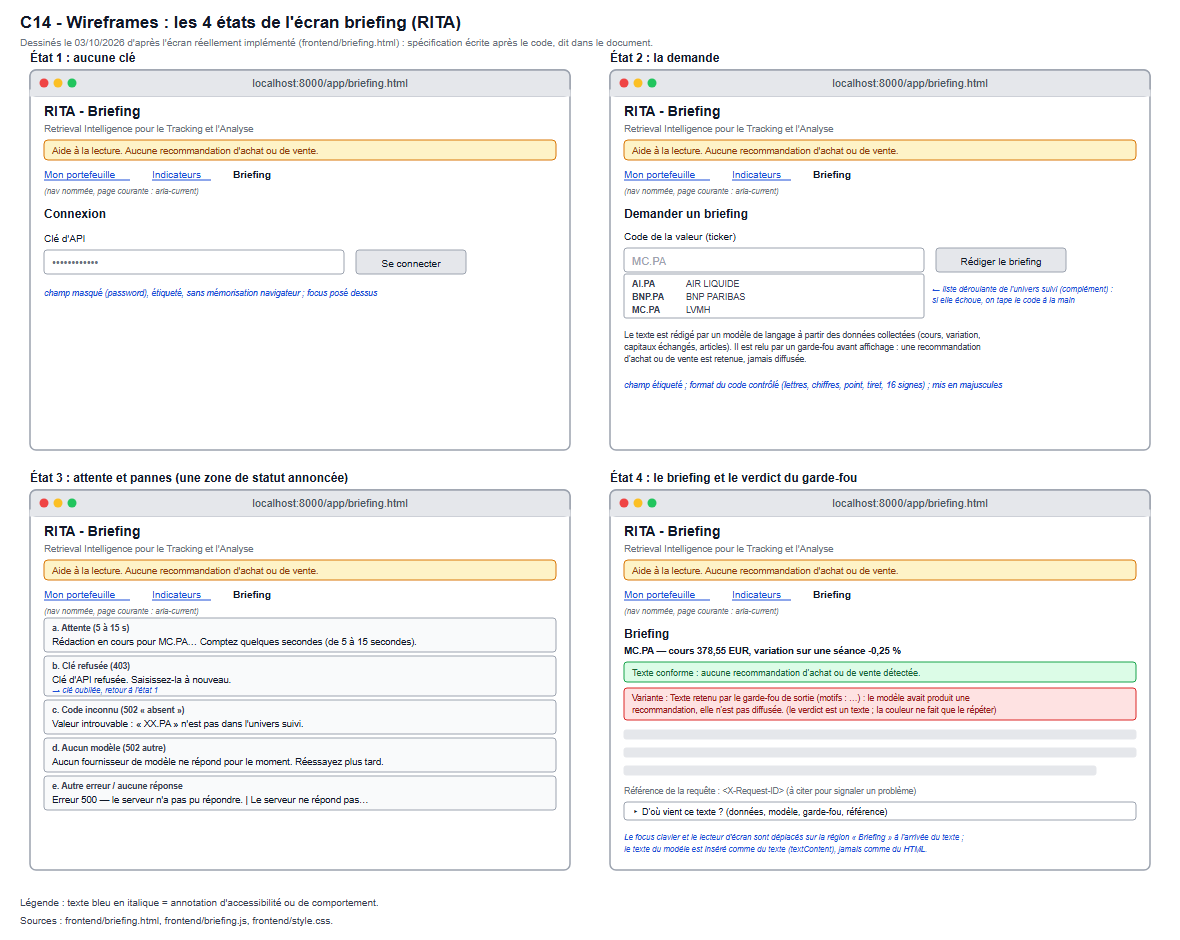
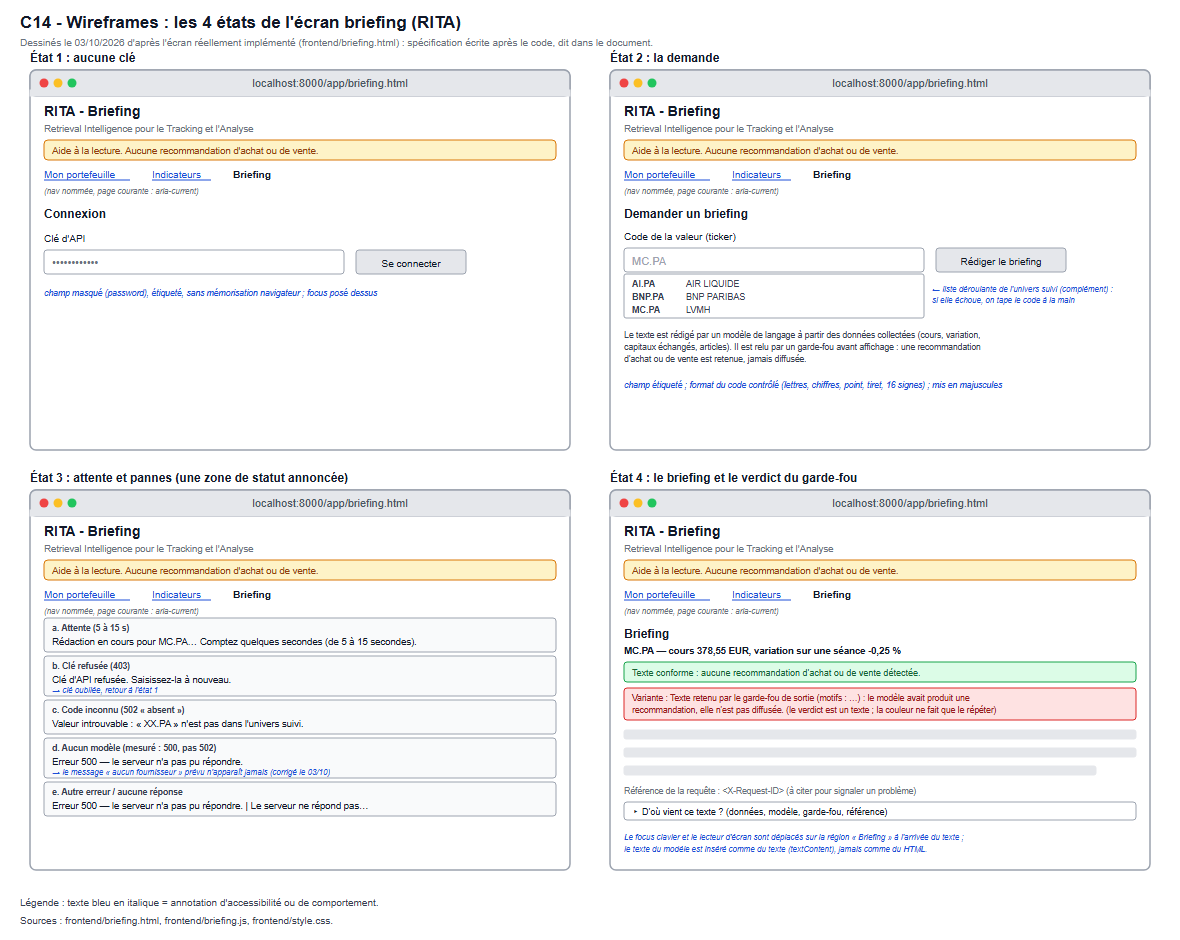
Plan E4, tache T4 : revue OWASP Top 10:2025 ecrite entree par entree (edition en vigueur ; code relu, recherches sur tout le depot et les 313 commits, garde-fous mesures, production sondee) ; tenus : acces, cryptographie, injections SQL et HTML, integrite, exceptions ; point faible : configuration (

Changed region(s): [[0.0305, 0.7713, 0.4881, 0.8638]]

diff --git a/evidence/C17/revue-owasp-top10-2025-2026-10-03.md b/evidence/C17/revue-owasp-top10-2025-2026-10-03.md
@@ -1,0 +1,147 @@
+# Revue OWASP Top 10:2025 de RITA, entrée par entrée (03/10/2026)
+
+> **Critère visé** : C17, *« Les préconisations OWASP Top 10 sont implémentées »* (livrable E4), et C9 pour l'API qui expose le modèle.
+> Tâche T4 du plan E4 ([`../../docs/PLAN-E4-rapport.md`](../../docs/PLAN-E4-rapport.md)), carte #29, avancée de la semaine 44 à aujourd'hui (décision D3).
+> **Code relu** : branche `develop`, commit `e39fbba` (03/10/2026). **Production sondée** le même soir : `https://178-104-184-125.sslip.io`.
+
+## 1. Le verdict, en une ligne par entrée
+
+| Entrée (édition 2025) | État | En une phrase |
+|---|---|---|
+| A01 Contrôle d'accès défaillant | 🟢 tenu, une réserve | toutes les routes de données et le briefing exigent la clé (prouvé en production) ; la documentation de l'API est publique (S2) |
+| A02 Mauvaise configuration de sécurité | 🔴 **le point faible** | aucun en-tête de sécurité en production (S1), documentation publique (S2), mots de passe de développement par défaut (S8) |
+| A03 Défaillances de la chaîne d'approvisionnement logicielle | 🟠 partiel | image épinglée, mais environnement de développement non épinglé, alertes Dependabot désactivées, actions épinglées par étiquette (S7) |
+| A04 Défaillances cryptographiques | 🟢 tenu | TLS 1.3, TLS 1.0 et 1.1 refusés, redirection HTTP vers HTTPS, comparaison de clé à temps constant |
+| A05 Injection | 🟢 tenu, une réserve | SQL toujours paramétré, `textContent` partout côté écran ; le ticker de `/briefing` n'a pas de longueur maximale (S5) ; injection de prompt : 70 % bloqués, sous le seuil de 85 % (S9) |
+| A06 Conception non sécurisée | 🟠 partiel | contrainte AMF en code, rien du portefeuille envoyé au modèle ; **aucune limite de débit** sur un appel payant (S3) ; pas de modèle de menace écrit |
+| A07 Défaillances d'authentification | 🟠 partiel | plus de clé par défaut (INC-001), longueur minimale, refus de démarrer sans clé ; une seule clé partagée, pas de limite aux essais (S3), clé mémorisée trop tôt sur l'écran 3 (#73) |
+| A08 Défaillances d'intégrité des logiciels ou des données | 🟢 tenu | `main` et tags protégés par GitHub, image publiée seulement après vérification et sur un tag, import en base par un seul chemin |
+| A09 Défaillances de journalisation et d'alerte | 🟠 partiel | identifiant de requête partout, refus du garde-fou journalisé sans le texte ; **les refus d'authentification ne sont pas journalisés** (S4), aucune alerte sur une chaîne rouge (INC-007) |
+| A10 Mauvaise gestion des conditions exceptionnelles | 🟢 tenu, une réserve | erreur inattendue : 500 générique avec identifiant, aucun détail interne ; panne de tous les fournisseurs : même 500, alors que l'écran prévoit un message dédié qui n'apparaît jamais (S6) |
+
+**Conclusion honnête** : la revue écrite existe, les injections et l'accès aux données tiennent, mais **plusieurs préconisations ne sont pas implémentées** (en-têtes, limitation de débit, journalisation des refus, chaîne d'approvisionnement). Le critère C17.8 reste donc **partiel** : il demande des préconisations *implémentées*, pas seulement passées en revue. Rien n'est corrigé avant le tag du 15/10 (aucun code d'application avant le gel) ; le plan de correction est au §5.
+
+## 2. Méthode
+
+| Élément | Valeur |
+|---|---|
+| Référence | **OWASP Top 10:2025**, l'édition en vigueur : `https://owasp.org/Top10/` redirige vers elle (vérifié le 03/10/2026) ; liste lue sur la page d'introduction officielle, [owasp.org/Top10/2025/0x00_2025-Introduction/](https://owasp.org/Top10/2025/0x00_2025-Introduction/) |
+| Compléments | [OWASP API Security Top 10 2023](https://owasp.org/API-Security/editions/2023/en/0x00-header/) (RITA est d'abord une API) ; [OWASP Top 10 pour les applications de modèles de langage](https://owasp.org/www-project-top-10-for-large-language-model-applications/) (injection de prompt) |
+| Lecture du code | `api/main.py`, `api/donnees.py`, `agents/scout.py`, `graph/workflow.py`, `src/llm.py`, `frontend/*.js`, `Dockerfile`, `docker-compose.yml`, `.github/workflows/*.yml` |
+| Recherches sur tout le code suivi par Git | toutes les exécutions SQL ; tout SQL assemblé par chaîne ; `eval`, `exec`, `pickle`, `shell=True` ; motifs de clés réelles (Anthropic, OpenRouter, Langfuse, AWS, GitHub, clés privées) dans l'arbre **et dans les 313 commits de l'historique** |
+| Mesures lancées | les trois mesures de garde-fous (`evals.mesurer_gardefou`, `mesurer_entree`, `mesurer_sortie`) ; une sonde locale de `/briefing` (panne de tous les fournisseurs, ticker de 5 000 caractères, ticker contenant une balise), sans réseau ni traçage |
+| Production | en-têtes de réponse, documentation publique, refus sans clé et avec une fausse clé, redirection HTTP, version de TLS et certificat |
+| Ce qui n'a **pas** été fait | aucun scanner automatique (ni ZAP, ni `pip-audit` : ils demandent un téléchargement, à décider) ; aucun test d'intrusion ; aucune revue par une autre personne |
+
+**Note de vocabulaire.** Le dépôt cite souvent « OWASP A03 » pour l'injection : c'est la numérotation **2021**. Dans l'édition 2025, l'injection est **A05**, et A03 désigne la chaîne d'approvisionnement logicielle. Les commentaires du code ne sont pas modifiés avant le gel ; ce document et la spécification C14 du 03/10 utilisent la numérotation 2025.
+
+## 3. Entrée par entrée
+
+### A01:2025 Contrôle d'accès défaillant : 🟢 tenu, une réserve
+
+**Ce qui est en place.** Une seule clé d'API, exigée par une dépendance posée **sur le routeur entier** des données (`api/main.py:207`) : une nouvelle route ne peut pas oublier la protection. `/briefing` et `/audit/mcp` l'exigent aussi ; `/health` seul est public et ne rend aucune donnée. Rôle PostgreSQL `rita_lecture` en lecture seule (`db/roles.sql`, 4 tests). La passerelle MCP passe par l'API et ne touche jamais la base.
+**Preuves.** Tests `test_toute_route_donnees_est_protegee` et `test_sans_cle_l_acces_est_refuse` (`tests/test_api_donnees.py`). **En production le 03/10** : `/donnees/valeurs` sans clé et avec une fausse clé : **403** ; `POST /briefing` sans clé : **403**.
+**Réserves.** (1) `/docs`, `/redoc` et `/openapi.json` répondent **200 sans clé** en production : la carte complète de l'API est publique, sans aucune donnée (**S2**). (2) Un seul niveau d'accès, choix d'une application mono-utilisateur (décision D10, à défendre par écrit : décision D1 du plan E4). (3) Le rôle `rita_lecture` existe mais aucun outil ne l'utilise encore.
+
+### A02:2025 Mauvaise configuration de sécurité : 🔴 le point faible
+
+**Ce qui est en place.** Conteneur de l'API non root (`USER rita`), système de fichiers en lecture seule, `no-new-privileges` ; la base de pré-production n'est pas publiée sur le réseau ; le front ne charge **aucune ressource externe ni aucun script en ligne** (vérifié), donc une politique de sécurité du contenu stricte est possible sans rien casser.
+**Ce qui manque, mesuré en production le 03/10** : la réponse ne porte **aucun** en-tête de sécurité : ni `Content-Security-Policy`, ni `Strict-Transport-Security`, ni `X-Content-Type-Options`, ni `X-Frame-Options`, ni `Referrer-Policy`. Elle annonce `Server: uvicorn` et `Via: 1.1 Caddy` (**S1**). La documentation interactive est publique (**S2**).
+**Mots de passe par défaut (S8).** `sources/database.py`, `db/importer.py` et `db/rgpd_purge.py` gardent une adresse de base par défaut avec le mot de passe `rita_dev_local` ; c'est **voulu et documenté** (elle vise le port 5432 pour échouer quand la configuration manque, au lieu de masquer l'absence, leçon d'INC-001). `db/docker-compose.yml` (développement) publie PostgreSQL sur toutes les interfaces avec ce même mot de passe ; `docker-compose.yml` (pré-production) a une valeur de secours `rita_preprod_local` si `POSTGRES_PASSWORD` manque. Aucun de ces fichiers ne sert la production ; à durcir quand même, parce qu'une valeur de secours est une porte ouverte documentée.
+
+### A03:2025 Défaillances de la chaîne d'approvisionnement logicielle : 🟠 partiel
+
+**En place.** L'image de l'API installe `requirements-api.txt`, **13 dépendances sur 13 épinglées** (`==`). Permissions par défaut des workflows : lecture seule (API GitHub). Aucun secret dans l'historique (§2).
+**Manques (S7).** `requirements.txt` (développement et CI) : 13 lignes sur 18 sans version (carte #23) ; aucun hachage (`--require-hashes`) ; **alertes Dependabot désactivées** (l'API GitHub le dit) et aucun fichier `dependabot.yml` ; les actions GitHub sont épinglées par **étiquette** (`@v7`), pas par empreinte de commit, dont une action tierce (`anthropics/claude-code-action@v1`) qui reçoit `id-token: write` ; image de base `python:3.13-slim` non épinglée par empreinte ; pas d'inventaire des composants (SBOM).
+**Un fournisseur de plus dans la chaîne** : le modèle de langage. Le banc C7 a montré que le Claude servi par OpenRouter vient d'Amazon Bedrock ([`../C7/preuve-benchmark-2026-10-03.md`](../C7/preuve-benchmark-2026-10-03.md), §10) : le texte du briefing traverse donc des hébergeurs que RITA ne choisit pas un par un.
+
+### A04:2025 Défaillances cryptographiques : 🟢 tenu
+
+**Mesuré en production le 03/10** : TLS **1.3** (`TLS_AES_128_GCM_SHA256`), **TLS 1.0 et 1.1 refusés**, certificat Let's Encrypt valide, HTTP redirigé vers HTTPS (308). Clé comparée par `secrets.compare_digest` (temps constant), longueur minimale de 16 caractères, API qui refuse de démarrer sans clé. Aucun mot de passe d'utilisateur n'est stocké. Côté navigateur, la clé vit dans `sessionStorage` (effacée à la fermeture de l'onglet), jamais dans un fichier du front (test).
+**Points à surveiller.** (1) **Le certificat expire le 18/11/2026, avant le jury du 30/11** : Caddy renouvelle automatiquement, mais ce renouvellement n'a jamais été observé sur ce serveur ; à contrôler fin octobre (**S10**). (2) Pas d'en-tête HSTS (voir A02). (3) Le chiffrement des sauvegardes n'est pas documenté : non vérifié ici.
+
+### A05:2025 Injection : 🟢 tenu, une réserve
+
+**SQL.** Toutes les exécutions passent des paramètres liés (`%(nom)s`, `%s`). Trois endroits assemblent du texte SQL : `db/importer.py:222` et `:236` (un fragment **constant**, `CLE_LIGNE`) et `scripts/lister_articles.py:66` (des marqueurs `%(motifN)s` générés, les valeurs restant liées) : aucune entrée d'utilisateur n'atteint le texte de la requête. Les filtres de l'API sont bornés (`limite` entre 1 et 1 000, ticker de 1 à 16 caractères sur `/cotations`, série FRED contrôlée contre une liste fermée, modèle Pydantic fermé `extra="forbid"` sur `/audit/mcp`).
+**Navigateur.** Les trois écrans écrivent par `textContent`, jamais `innerHTML` (trois tests). Le texte du modèle est traité comme une donnée.
+**Journal.** Identifiant de requête accepté seulement s'il est sain (8 à 64 caractères sûrs), valeurs écrites avec `%r` (pas de fausse ligne de journal).
+**Commandes.** Aucun `eval`, `exec`, `pickle`, `yaml.load` ni `shell=True` dans le code de l'application.
+**Réserve, mesurée (S5).** `POST /briefing` prend `ticker: str` **sans longueur maximale** : un ticker de 5 000 caractères est écrit en entier dans le journal et renvoyé en entier (5 027 caractères) dans la réponse 502 ; une balise `<img src=x>` revient telle quelle dans le JSON, sans danger ici parce que l'écran l'affiche par `textContent`.
+**Injection de prompt** (hors du Top 10 web, première entrée du Top 10 des applications de modèles de langage). Mesuré le 03/10 : garde-fou d'injection **70 %** de blocage sur 10 cas, 0 % de faux positifs ; garde-fou de sortie **70 %** sur 10, 0 % ; garde-fou d'entrée 100 % sur 5. Les deux premiers sont **sous le seuil de 85 %**, déclarés en `xfail` dans `tests/test_evals.py`, seuil jamais baissé (**S9**). Les phrases qui passent sont listées par les mesures (« une occasion à saisir », « mérite une place dans un portefeuille diversifié »).
+
+### A06:2025 Conception non sécurisée : 🟠 partiel
+
+**En place.** La contrainte AMF est dans le code, pas seulement dans le prompt : le garde-fou de sortie est en échec fermé (un doute = texte non diffusé). Les positions de l'utilisateur ne sont jamais envoyées au modèle (le scout ne lit que trois lectures de marché). La passerelle MCP n'a pas d'accès direct à la base. Le risque des trois ingrédients réunis (données privées, contenu non fiable, sortie vers l'extérieur) a été étudié en veille (S33, S34).
+**Manques.** (1) **Aucune limite de débit (S3)** : celui qui tient la clé peut déclencher autant d'appels payants qu'il veut (OWASP API4:2023, consommation de ressources non bornée). (2) **Pas de modèle de menace écrit** dans le dépôt : il existe en morceaux dans la veille, pas comme un document. (3) Seize indicateurs spécifiés, treize envoyés au modèle : le choix de ne pas envoyer les positions est un choix de confidentialité, à écrire comme tel.
+
+### A07:2025 Défaillances d'authentification : 🟠 partiel
+
+**En place.** Plus de clé par défaut depuis le 18/08 (INC-001, test `test_l_api_refuse_de_servir_sans_cle_configuree`) ; longueur minimale ; comparaison à temps constant ; une clé refusée est oubliée par l'écran et redemandée.
+**Manques.** Une seule clé statique partagée, sans expiration, sans procédure de rotation testée ; **aucune limite aux essais** (S3) ; aucun journal des refus (S4) ; l'écran briefing mémorise la clé avant de savoir si elle fonctionne (carte #73).
+
+### A08:2025 Défaillances d'intégrité des logiciels ou des données : 🟢 tenu
+
+**En place.** Règles GitHub : `main` ne change que par une pull request avec `pytest`, `evals` et la revue verts ; les tags `livrable-*` ne peuvent être ni déplacés ni supprimés ([`../C19/preuve-protection-main-2026-10-03.md`](../C19/preuve-protection-main-2026-10-03.md)). L'image n'est publiée qu'après sa vérification, et seulement sur un tag. En base : écriture par `db/importer.py` et `pipelines/ingest.py` seulement, 12 contraintes `CHECK` dans `db/schema.sql` (trois de plus dans les migrations du 03/10), articles marqués par le garde-fou d'injection avant d'entrer dans la recherche.
+**Limites.** Image non signée ; actions épinglées par étiquette (voir A03).
+
+### A09:2025 Défaillances de journalisation et d'alerte : 🟠 partiel
+
+**En place.** Un identifiant par requête dans l'en-tête, dans chaque ligne de journal et comme identifiant de trace Langfuse, y compris sur un 500 (test `test_une_erreur_inattendue_500_porte_aussi_l_identifiant`). Une ligne par briefing servi, une par refus du garde-fou, jamais le texte. Traces Langfuse ; un workflow ouvre une issue sur une alerte Langfuse.
+**Manques.** (1) **Les refus d'authentification (403) ne laissent aucune ligne** (S4) : une tentative de force brute serait invisible. (2) **Aucune alerte quand la chaîne d'intégration continue est rouge** : INC-007 l'a montré, dix exécutions rouges en 1 h 20 sans que personne le sache. (3) Les alertes Langfuse attendent leur configuration par Era. (4) Un ticker sans longueur maximale peut remplir le journal (S5).
+
+### A10:2025 Mauvaise gestion des conditions exceptionnelles : 🟢 tenu, une réserve
+
+**En place.** Toute exception imprévue devient un 500 générique, avec l'identifiant de requête, le détail allant au journal seulement (test). Mesuré le 03/10 : quand **tous** les fournisseurs échouent, le client reçoit `{"detail": "Erreur interne. Identifiant de requete : …"}` et **l'adresse interne du fournisseur ne fuit pas**. La cascade passe d'un fournisseur au suivant ; le garde-fou de sortie échoue fermé ; un indicateur absent s'affiche « — », jamais 0 ; une panne d'un lot d'indicateurs ne fait pas tomber l'autre.
+**Réserve (S6).** Cette panne de tous les fournisseurs donne **500, pas 502** : le message « Aucun fournisseur de modèle ne répond pour le moment » prévu par l'écran briefing **n'apparaît jamais** ; l'utilisateur lit « Erreur 500 — le serveur n'a pas pu répondre. ». Sûr, mais moins clair. La spécification US-3 du 03/10 affirmait l'inverse ; elle est corrigée par une note datée (§6).
+
+## 4. Les constats, numérotés
+
+| # | Constat | Entrées | Gravité | Correction proposée | Où |
+|---|---|---|---|---|---|
+| S1 | Aucun en-tête de sécurité en production ; `Server` et `Via` annoncés | A02, A04 | moyenne | CSP stricte `default-src 'self'` (le front le permet), HSTS, `nosniff`, `frame-ancestors 'none'`, `Referrer-Policy` ; dans Caddy ou par un composant FastAPI ; test qui lit les en-têtes | carte #75 |
+| S2 | `/docs`, `/redoc`, `/openapi.json` publics en production | A01, A02 | faible | les servir seulement avec la clé, ou les couper en production | **décision d'Era (D7)** : elles servent à la démonstration |
+| S3 | Aucune limite de débit, ni sur `/briefing` (appel payant) ni sur les essais de clé | A06, A07, API4:2023 | moyenne | limite par adresse et par clé, réponse 429 ; test qui l'atteint | carte #75 |
+| S4 | Refus d'authentification non journalisés | A09 | moyenne | une ligne WARNING par 403, avec l'identifiant et l'adresse, jamais la clé tentée ; test | carte #75 |
+| S5 | Ticker de `/briefing` sans longueur ni format | A05, A09 | faible | `Query(min_length=1, max_length=16, pattern=...)`, comme `/cotations` ; test 422 | carte #75 |
+| S6 | Panne de tous les fournisseurs : 500, message dédié de l'écran inatteignable | A10 | faible | renvoyer 503 « aucun fournisseur » depuis l'API, ou corriger l'écran ; test | carte #75 |
+| S7 | Chaîne d'approvisionnement : environnement non épinglé, pas de hachages, Dependabot désactivé, actions par étiquette, image de base sans empreinte | A03, A08 | moyenne | #23 ; activer les alertes Dependabot (réglage du dépôt, **Era**) ; épingler les actions par empreinte | #23, réglage d'Era |
+| S8 | Mots de passe de développement par défaut, PostgreSQL de développement publié sur toutes les interfaces | A02, A07 | faible (local) | retirer la valeur de secours de la pré-production ; lier le port de développement à 127.0.0.1 | carte #75 |
+| S9 | Garde-fous d'injection et de sortie à 70 %, sous le seuil de 85 % | A05, LLM01 | moyenne | élargir les motifs sur un plan validé (zone sous garde `guardrails/`, `evals/`), sans baisser le seuil | plan à écrire |
+| S10 | Certificat expire le 18/11/2026, avant le jury ; renouvellement jamais observé | A04 | moyenne si oubliée | contrôler la date fin octobre ; noter l'échéance dans `docs/EXPLOITATION.md` | à faire après le déploiement |
+
+Déjà ouvertes et liées : **#73** (clé mémorisée trop tôt, A07), **#74** (compression et cache, sans lien direct avec la sécurité), **#23** (épinglage).
+
+## 5. Ordre de correction proposé, après le tag du 15/10
+
+1. **S5 et S6** : quelques lignes chacune, tests d'abord, réduisent la surface et rendent l'écran juste.
+2. **S4 puis S3** : journaliser les refus, puis limiter le débit ; le second se vérifie par le premier.
+3. **S1** : en-têtes de sécurité, une seule configuration, vérifiable par `curl`.
+4. **S7** : épinglage (#23), puis activation des alertes Dependabot par Era, puis empreintes des actions.
+5. **S8, S10** ; **S9** sur un plan validé, parce qu'il touche une zone sous garde.
+6. **Remesure** : refaire cette revue sur la production déployée, et noter ce qui a changé.
+
+## 6. Corrections apportées à d'autres documents par cette revue
+
+- [`../C14/preuve-specifications-ecrans-2-et-3.md`](../C14/preuve-specifications-ecrans-2-et-3.md) : scénario S5 de l'US-3 et état 3d du wireframe de l'écran 3 corrigés (une panne de tous les fournisseurs donne 500, pas 502), par une note datée ; références « OWASP A03 » remplacées par la numérotation 2025 (A05).
+
+## 7. Ce que cette revue n'est pas
+
+Une revue de code faite par l'auteur du code, appuyée sur des mesures et des sondes, sans outil d'analyse automatique ni test d'intrusion. Elle ne prouve pas l'absence de faille ; elle dit, pour chaque entrée, ce qui est en place, avec quelle preuve, et ce qui manque.
+
+*Un document qui ne signale aucune faiblesse n'est pas crédible devant un jury.*
+
+## 📖 Glossaire
+
+| Terme | En clair |
+|---|---|
+| **OWASP Top 10** | liste de référence des dix risques de sécurité les plus courants des applications web, revue tous les quatre ans environ ; l'édition 2025 est la huitième |
+| **Chaîne d'approvisionnement logicielle** | tout ce dont l'application dépend sans l'avoir écrit : bibliothèques, images Docker, actions GitHub, services de modèle |
+| **En-têtes de sécurité** | consignes envoyées par le serveur au navigateur : CSP (d'où peuvent venir les scripts), HSTS (toujours HTTPS), `nosniff` (ne pas deviner le type d'un fichier) |
+| **CSP** | Content Security Policy : la liste des origines autorisées pour les scripts, styles et images d'une page |
+| **Limitation de débit** | nombre maximal d'appels par période ; au-delà, l'API répond 429 |
+| **Temps constant** | comparaison dont la durée ne dépend pas du nombre de caractères justes : elle ne renseigne pas un attaquant |
+| **Échec fermé** | en cas de doute ou de panne, le système refuse au lieu de laisser passer |
+| **Dependabot** | service de GitHub qui signale les dépendances ayant une faille connue |
+| **Épingler par empreinte** | désigner une version par son identifiant unique (hachage), qui ne peut pas être déplacé, plutôt que par une étiquette qui peut l'être |
+| **Injection de prompt** | texte qui tente de faire désobéir le modèle à ses consignes, par exemple caché dans un article |
+| **Force brute** | essayer des clés au hasard jusqu'à tomber sur la bonne |

diff --git a/evidence/C14/preuve-specifications-ecrans-2-et-3.md b/evidence/C14/preuve-specifications-ecrans-2-et-3.md
@@ -117,7 +117,7 @@ mesuré ; l'avertissement « Aide à la lecture. Aucune recommandation d'achat o
 | I11 | Chaque changement de statut est annoncé par un lecteur d'écran ; la langue de la page est déclarée ; les zones de la page (en-tête, navigation nommée, contenu, pied) sont identifiées ; la page courante est signalée dans la navigation (bonne pratique, sans règle RGAA propre) | **RGAA 7.5**, **8.3**, **12.6** | `test_les_marqueurs_d_accessibilite_de_l_ecran_2` (`aria-live="polite"`, `role="status"`, `lang="fr"`, `aria-current="page"`) |
 | I12 | La page a un titre, une structure de titres et des champs étiquetés | **RGAA 8.5**, **9.1**, **11.1** | **lecture** de `indicateurs.html` (`<title>`, `h1`/`h2`, `label for`) ; aucun test dédié |
 | I13 | Le filtre agit sur les données déjà chargées et est relié au tableau qu'il modifie | utilisabilité | `aria-controls` : même test que I11 ; « sans appel réseau » : **lecture** du gestionnaire `change` |
-| I14 | Aucun contenu de l'API n'est interprété comme du HTML | **OWASP A03** | `test_l_ecran_indicateurs_n_utilise_jamais_innerhtml` |
+| I14 | Aucun contenu de l'API n'est interprété comme du HTML | **OWASP A05:2025** | `test_l_ecran_indicateurs_n_utilise_jamais_innerhtml` |
 | I15 | Les termes sont définis dans l'écran | utilisabilité | **lecture** : le bloc « Comment lire ce tableau ? » définit chaque colonne et « cotation périmée » |
 
 ---
@@ -140,7 +140,7 @@ ses motifs. L'écran dit aussi qu'**aucune donnée du portefeuille n'est envoyé
 | S2 | Visite suivante, même onglet | la demande s'ouvre directement |
 | S3 | Clé invalide ou révoquée | découverte **à la première demande** (403) et non à la connexion : message, clé oubliée, retour à la saisie |
 | S4 | Code inconnu | réponse 502 « absent » : « Valeur introuvable : « XX.PA » n'est pas dans l'univers suivi. » |
-| S5 | Aucun fournisseur de modèle disponible | réponse 502 autre : « Aucun fournisseur de modèle ne répond pour le moment. Réessayez plus tard. » |
+| S5 | Aucun fournisseur de modèle disponible | ~~réponse 502 autre : « Aucun fournisseur… »~~ **corrigé le 03/10 au soir, mesuré** : l'API répond **500** générique, l'écran affiche « Erreur 500 — le serveur n'a pas pu répondre. » ; le message dédié n'apparaît jamais (revue OWASP, constat S6) |
 | S6 | API arrêtée, ou autre code HTTP | « Le serveur ne répond pas… » ou « Erreur N — le serveur n'a pas pu répondre. » |
 | S7 | Texte retenu par le garde-fou | le verdict dit « Texte retenu par le garde-fou de sortie (motifs : …) » et le texte du modèle n'est pas diffusé |
 | S8 | La liste déroulante de l'univers ne se charge pas | l'écran reste utilisable, on tape le code à la main |
@@ -153,7 +153,7 @@ ses motifs. L'écran dit aussi qu'**aucune donnée du portefeuille n'est envoyé
 | R2 | La demande est un `POST /briefing?ticker=…` avec l'en-tête `X-API-Key` | contrat OpenAPI | `test_l_ecran_briefing_appelle_le_point_de_terminaison_du_modele_en_post_avec_la_cle` |
 | R3 | L'attente est dite : « de 5 à 15 secondes » | utilisabilité | `test_l_ecran_briefing_dit_que_la_redaction_prend_du_temps` |
 | R4 | Le verdict du garde-fou est un **texte** (« conforme » ou « retenu », avec les motifs) ; la couleur ne fait que le répéter | **RGAA 3.1** | `test_le_verdict_du_garde_fou_est_dit_en_texte_pas_seulement_en_couleur` ; navigateur réel : `test_l_ecran_briefing_affiche_le_texte_et_le_verdict` |
-| R5 | Le texte du modèle est inséré comme du texte, en paragraphes, jamais comme du HTML | **OWASP A03** | `test_le_texte_du_modele_est_rendu_en_paragraphes_sans_html`, `test_l_ecran_briefing_n_utilise_jamais_innerhtml` |
+| R5 | Le texte du modèle est inséré comme du texte, en paragraphes, jamais comme du HTML | **OWASP A05:2025** | `test_le_texte_du_modele_est_rendu_en_paragraphes_sans_html`, `test_l_ecran_briefing_n_utilise_jamais_innerhtml` |
 | R6 | Un code inconnu est dit en clair ; une clé refusée (403) est oubliée | utilisabilité | `test_un_ticker_inconnu_est_dit_en_clair_et_une_cle_refusee_est_oubliee`, `test_l_ecran_briefing_dit_quand_le_ticker_est_introuvable` (navigateur réel) ; les autres pannes (aucun modèle, serveur muet, autre code) : **lecture** |
 | R7 | La référence de la requête (`X-Request-ID`) est affichée pour le support | traçabilité (C11) | `test_l_identifiant_de_requete_est_montre_pour_le_support` ; navigateur réel : même test que R4 |
 | R8 | L'avertissement « Aucune recommandation d'achat ou de vente » est affiché | contrainte AMF | `test_l_avertissement_amf_est_sur_l_ecran_briefing` |
@@ -186,6 +186,10 @@ ses motifs. L'écran dit aussi qu'**aucune donnée du portefeuille n'est envoyé
 ### Mise à jour du 03/10/2026, tâche T3
 
 Trois vérifications passent de « lecture du code » à « **mesuré** » (`../C17/mesures-2026-10-03/clavier.json`, Lighthouse 13.5.0) : **I10** (zone qui défile atteignable au clavier, focus visible : contour de 2 px sur la région, 3 px ailleurs), **R11** (le focus est déplacé sur la région « Briefing » à l'arrivée du texte, après un envoi au clavier) et l'ordre de tabulation des trois écrans (logique, sans piège). Lighthouse confirme par ailleurs, sans échec, `lang`, le titre de page, les étiquettes de champ, la structure de titres et les noms accessibles (I11, I12, R11). Les autres lignes « lecture » restent « lecture ».
+
+### Correction du 03/10/2026 au soir, revue OWASP (tâche T4)
+
+Le scénario S5 de l'US-3 et l'état 3d du wireframe de l'écran 3 décrivaient une réponse 502 « aucun fournisseur ». Une sonde de `/briefing` avec les trois fournisseurs en panne montre une réponse **500** générique (sans fuite de l'adresse interne) : l'exception traverse le graphe et devient l'erreur interne du composant de journalisation. Le message dédié de l'écran est donc inatteignable. Le wireframe est redessiné ; la correction du comportement est la carte #75 (constat S6 de `../C17/revue-owasp-top10-2025-2026-10-03.md`). Les critères R6 et R11 n'en dépendent pas.
 
 ## 6. Erratum sur l'écran 1 : la référence RGAA des messages de statut
 
@@ -230,4 +234,4 @@ clavier · 7.5 messages de statut · 8.3 langue par défaut · 8.5 titre de page
 | **Lot 1, lot 3** | groupes d'indicateurs : le socle (cours, performances, moyennes, échangé, distance au plus haut) et le risque (volatilité, plus forte baisse, RSI) |
 | **Cotation périmée** | la valeur n'a plus coté depuis longtemps, probablement radiée : ses chiffres décrivent le passé |
 | **Tiret « — »** | « non calculable faute d'historique », jamais un zéro |
-| **OWASP A03** | risque d'injection : un contenu venu de l'extérieur interprété comme du code |
+| **OWASP A05:2025** (A03 dans l'édition 2021) | risque d'injection : un contenu venu de l'extérieur interprété comme du code |

diff --git a/ETAT.md b/ETAT.md
@@ -62,6 +62,8 @@ zones sous garde (`db/schema.sql`, `guardrails/`, `evals/`) : rien sans plan val
 
 🏁 **03/10, nuit : Foundry répond, et le banc C7 compare enfin deux éditeurs.** Clé posée par Era ; un 400 « `max_tokens` unsupported » corrigé en `max_completion_tokens` (test d'abord) ; briefing réel SAN.PA servi par Foundry en 5,6 s sans repli (trace à une génération). **Quatrième passage du banc** : Foundry `gpt-5.4` et OpenRouter `claude-sonnet-4.5` indiscernables sur les contrôles automatiques (30/30 conformes et fidèles chacun, Wilson [0,89 ; 1,00]) ; Foundry médiane 3,2 s mais p95 10,7 s, OpenRouter 6,3 s et 7,2 s ; coût 0 pour le projet contre 0,0060 USD. Recommandation **provisoire** : Foundry en premier, OpenRouter en secours (l'ordre actuel), à confirmer par la notation du français d'Era (`notes-francais-2026-10-03.csv`, **60 textes**, deux services confondus). E2 : 6 ✅ 12 🟠 2 🔴. Preuve §9.
 
+🛡 **03/10, nuit : T4 faite, revue OWASP Top 10:2025 écrite** (`evidence/C17/revue-owasp-top10-2025-2026-10-03.md`). L'édition en vigueur est **2025** (l'adresse officielle y redirige) : l'injection y est A05, et non plus A03 comme le dépôt l'écrit encore. Tenus : contrôle d'accès (403 en production sans clé et avec une fausse clé), cryptographie (TLS 1.3, 1.0 et 1.1 refusés), injection SQL et HTML, intégrité, conditions exceptionnelles. **Le point faible est la configuration** : aucun en-tête de sécurité en production, documentation de l'API publique. Partiels : chaîne d'approvisionnement (Dependabot désactivé, dépendances de développement non épinglées), conception (**aucune limite de débit sur un appel payant**), authentification, journalisation (**les refus de clé ne laissent aucune trace**). Deux faits **mesurés** par une sonde : un ticker de 5 000 caractères passe en entier dans le journal et la réponse ; la panne de tous les fournisseurs donne un 500 sans fuite, mais **pas le 502 que ma spécification de l'écran 3 décrivait** (corrigée, wireframe redessiné). Aucun secret dans l'arbre ni dans les 313 commits. **Le certificat expire le 18/11, avant le jury** : renouvellement à contrôler fin octobre. Corrections regroupées : carte #75, après le 15/10. **Pour toi** : décision D7 (documentation `/docs` publique en production : la garder pour la démonstration, ou la mettre derrière la clé ?) et activer les alertes Dependabot (Settings, Code security). C17.8 reste ⚠ (revue faite, préconisations pas toutes implémentées). Recompte inchangé : 27 ✅, 9 ⚠. Prochaine tâche : T5, défendre les droits d'accès par écrit (D1).
+
 🌿 **03/10, nuit : T3 faite, éco-conception et accessibilité mesurées** (`evidence/C17/preuve-eco-conception-et-accessibilite-2026-10-03.md`, Lighthouse 13.5.0 en mode flux, EcoIndex avec le code officiel `cnumr/ecoindex_python`, parcours au clavier). **Accessibilité : 100 sur 100 et zéro échec aux 10 étapes**, bureau et mobile ; clavier : ordre logique, focus visible, focus placé sur le résultat du briefing, aucun piège. **EcoIndex : A (portefeuille, 90), A (briefing, 90), D (écran indicateurs avec 111 valeurs, 51)** : la cause est le nombre d'éléments de la page (1 860), pas son poids ; la compression, mesurée, fait passer 51 à 52. **Constats** : aucune compression ni aucun en-tête de cache, ni en local ni en production ; `favicon.ico` en 404 ; **la production sert encore les pages du 19/08 et n'a pas l'écran briefing (404)**. Corrections regroupées dans la **carte #74, après le tag du 15/10**, puis remesure (tableau avant/après). **Décision D6 d'Era** : réduire les lignes affichées d'emblée sur l'écran indicateurs ? (seul levier sur la note ; recommandation : pas avant le gel). Recompte : **27 ✅, 9 ⚠, 0 ❌**. Prochaine tâche : T4, la revue OWASP écrite (#29).
 
 📐 **03/10, soir : T2 faite, les écrans 2 et 3 spécifiés** (`evidence/C14/preuve-specifications-ecrans-2-et-3.md` : US-2 et US-3, 9 et 8 scénarios, 15 et 14 critères d'acceptation avec le test qui les vérifie ou la mention « lecture du code », wireframes d'état en `.drawio`, `.svg` et `.png`). **Écrit après le code, dit en tête du document.** Trois trouvailles : (1) **défaut sur l'écran 3**, la clé est mémorisée avant d'avoir fonctionné (carte #73, correction après le tag du 15/10, test d'abord) ; (2) **erreur de référence RGAA** dans la spécification de l'écran 1 et deux étiquettes de tests : les messages de statut sont la règle 7.5 du RGAA 4.1.2, pas 12.x ni 4.x (erratum daté, étiquettes corrigées) ; (3) l'écran 2 appelle « Pire baisse » ce que le prompt appelle « Drawdown » : à rapprocher du 0 sur 60. **Recompte mis à jour : 26 ✅, 10 ⚠, 0 ❌** (C14.3 passe à ✅). Prochaine tâche : T3, mesurer éco-conception et accessibilité des trois pages (**décision D2 d'Era attendue**, Lighthouse via `npx` télécharge un paquet).

diff --git a/CONTINUITE.md b/CONTINUITE.md
@@ -219,6 +219,7 @@ conception Merise), les expose par une API REST, et rédige un **briefing en fra
 | Banc C7, deux passages, 03/10 nuit | **EXÉCUTÉ + MESURÉ (un fournisseur)** | `evidence/C7/preuve-benchmark-2026-10-03.md` : OpenRouter 30/30, Wilson [0,89 ; 1,00], 5,6 s / 7,4 s, 0,13 USD sur le prompt corrigé (#57 : 5/30 textes disaient « titres » pour des capitaux, 0/30 après) ; Foundry et Anthropic indisponibles (clés) ; INC-006 bis corrigé ; **non fait** : comparaison, notation du français, question au formateur |
 | Écran 3, le briefing, 03/10 nuit | **TESTÉ + VÉRIFIÉ dans un vrai navigateur** | `tests/test_frontend.py` 72, `tests/test_smoke_ui.py` 7 (rouges d'abord : fichiers absents, puis verts) ; briefing réel capturé `evidence/C10/ecran-briefing-2026-10-03.png` ; E3 : 33 ✅ 6 🟠 0 🔴 ; **non fait** : outil MCP de briefing (choix), récit utilisateur de l'écran 2 (#24) |
 | Les 13 indicateurs dans le prompt, 03/10 nuit | **TESTÉ + MESURÉ (banc, 3e passage)** | `agents/analyst.py` (`INDICATEURS_DU_PROMPT`, bloc « faits, jamais des signaux »), `agents/scout.py` (RSI joint), `graph/workflow.py` ; 30/30 conformes AMF, 0 mot de signal, 30/30 citent le RSI ; coût 0,0045 → 0,0060 USD ; `evidence/C7/preuve-benchmark-2026-10-03.md` §8 ; **à surveiller** : « pression vendeuse » comme lecture du RSI, à mettre dans `evals/cas.py` |
+| Plan E4 T4, revue OWASP Top 10:2025, 03/10 nuit | **FAIT (revue par l'auteur, sondes de production, sans scanner)** | `evidence/C17/revue-owasp-top10-2025-2026-10-03.md` ; A02 rouge, A03 A06 A07 A09 partiels ; constats S1 à S10 ; spécification US-3 corrigée (500, pas 502) ; **non fait** : corrections (carte #75), scanner (ZAP, pip-audit : téléchargement à décider), décisions D7 et Dependabot (Era) |
 | Plan E4 T3, éco-conception et accessibilité mesurées, 03/10 nuit | **MESURÉ (une exécution par état, en local)** | `evidence/C17/preuve-eco-conception-et-accessibilite-2026-10-03.md` + `mesures-2026-10-03/` ; accessibilité 100/100, 0 échec ; EcoIndex A, A, D ; clavier mesuré ; production non auditée (elle sert les pages du 19/08, briefing en 404) ; **non fait** : corrections F1 à F3 (carte #74, après le 15/10), remesure, décision D6 sur les lignes affichées, lecteur d'écran réel |
 | Plan E4 T2, spécifications des écrans 2 et 3, 03/10 soir | **FAIT + VÉRIFIÉ (écrit après le code)** | `evidence/C14/preuve-specifications-ecrans-2-et-3.md`, 3 wireframes `.drawio` / `.svg` / `.png` par écran ; défaut #73 (clé mémorisée avant succès, écran 3) ; erratum RGAA 7.5 ; recompte 26/10/0 ; **non fait** : correction de #73 (après le 15/10), audit outillé (T3, décision D2) |
 | Plan E4 T1, recomptage des 36 critères, 03/10 soir | **FAIT + VÉRIFIÉ** | `docs/rapports/E4/recomptage-criteres-2026-10-03.md` : 25 ✅ / 11 ⚠ / 0 ❌ ; C16 recule (aucun compte rendu daté), C19 avance ; **non vérifié** : droits du formateur sur le tableau Kanban (Era), accessibilité des documents ; **suite** : T2 (user stories écrans 2 et 3) |

diff --git a/evidence/README.md b/evidence/README.md
@@ -33,7 +33,7 @@ capture d'écran horodatée, sortie de commande, fichier produit, lien vers un r
 | `C8/` | Paramétrage du service de modèle | `README.md` (03/10/2026) : index des preuves réelles (cascade, briefing réel, trace, guide d'exploitation corrigé), un seul fournisseur opérationnel dit tel quel, remise non prouvée (#43) | 🟠 créé le 03/10/2026 |
 | `C10/` | Intégrer l'API dans une application | `preuve-ecran-briefing.md` et `ecran-briefing-2026-10-03.png` (03/10) : l'écran 3 appelle `/briefing`, un briefing réel capturé ; `preuve-passerelle-mcp.md`, `preuve-ecran-indicateurs.md`, hook `bloquer-secrets`, scan Giskard | ✅ complété le 03/10/2026 |
 | `C14/` | Spécifications et wireframes des trois écrans | `preuve-specifications-wireframes.md` (écran 1, 18/08, avec un erratum RGAA du 03/10) ; `preuve-specifications-ecrans-2-et-3.md` (03/10, écrites après le code, dit en tête) ; wireframes `.drawio`, `.svg`, `.png` par écran ; `preuve-indicateurs-lot1.md`, `preuve-indicateurs-lot3.md` | 🟠 US-1 à US-3 spécifiées ; défaut #73 relevé en l'écrivant |
-| `C17/` | Éco-conception et accessibilité des trois écrans | `preuve-eco-conception-et-accessibilite-2026-10-03.md` : Lighthouse 13.5.0 (accessibilité 100 sur 100, zéro échec), parcours au clavier mesuré, EcoIndex officiel (A, A et D), compression mesurée ; dossier `mesures-2026-10-03/` (rapports, résumés, scripts, entrées rejouables) | 🟠 mesuré le 03/10 ; corrections après le 15/10 (carte #74) |
+| `C17/` | Éco-conception et accessibilité des trois écrans | `preuve-eco-conception-et-accessibilite-2026-10-03.md` : Lighthouse 13.5.0 (accessibilité 100 sur 100, zéro échec), parcours au clavier mesuré, EcoIndex officiel (A, A et D), compression mesurée ; dossier `mesures-2026-10-03/` (rapports, résumés, scripts, entrées rejouables) ; `revue-owasp-top10-2025-2026-10-03.md` : revue OWASP Top 10:2025 entrée par entrée, sondes de production, dix constats | 🟠 mesuré et revu le 03/10 ; corrections après le 15/10 (cartes #74, #75) |
 | `C7/` | Banc des fournisseurs de modèle | `preuve-benchmark-2026-10-03.md` : quatre passages le 03/10, dont la première comparaison (Foundry `gpt-5.4` contre OpenRouter `claude-sonnet-4.5`, 30 appels chacun, intervalles de Wilson, latence, coût) ; `prix-et-environnement-2026-10-03.md` : prix publics datés et information environnementale (rien par modèle chez les deux éditeurs, écrit inconnu) ; `indicateurs-cites-dans-les-textes-2026-10-03.md` : 16 indicateurs spécifiés, 13 reçus par le prompt, 9,3 cités par texte, drawdown cité 0 fois sur 60 ; jeu figé, brut en JSONL, résumés JSON, notation à l'aveugle à remplir par Era | 🟠 créé le 03/10/2026, comparaison le soir même |
 
 **186 tests verts** (`pytest -q`). Base : 8 tables · 1 vue · 15 index · 9 contraintes `CHECK` ·

diff --git a/CHANGELOG.md b/CHANGELOG.md
@@ -9,6 +9,12 @@
 
 ---
 
+## 2026-10-03 (nuit, fin) : revue OWASP Top 10:2025, la configuration de production est le point faible
+
+**Manque découvert** : la revue OWASP (édition 2025, la seule en vigueur ; le dépôt citait encore la numérotation 2021) trouve la production **sans aucun en-tête de sécurité**, la documentation de l'API publique, **aucune limite de débit** sur un appel payant, des refus de clé **jamais journalisés**, et des alertes Dependabot désactivées. Une sonde montre aussi qu'un ticker de 5 000 caractères est accepté et que la panne de tous les fournisseurs rend un 500 (sûr, mais différent de ce que la spécification de l'écran 3 écrivait le matin même : corrigée). Le certificat expire le 18/11, avant le jury. Tenus : contrôle d'accès, TLS, injections SQL et HTML, intégrité de la livraison, aucun secret dans l'historique. Rien n'est corrigé avant le gel ; dix constats regroupés (carte #75).
+
+---
+
 ## 2026-10-03 (nuit, suite) : éco-conception et accessibilité mesurées ; un écran noté D
 
 **Manque découvert** : la première mesure d'éco-conception (Lighthouse et EcoIndex officiel) classe l'écran **indicateurs en D** (51 sur 100) quand il affiche les 111 valeurs : 1 860 éléments dans la page. Le poids n'est pas en cause (compression mesurée : 51 devient 52). Autres constats : aucune compression ni en-tête de cache, `favicon.ico` en 404, et la **production sert toujours les pages du 19/08**, sans l'écran briefing. Accessibilité automatique : 100 sur 100, zéro échec, clavier mesuré. Corrections regroupées (carte #74) après le tag du 15/10 ; la décision de réduire les lignes affichées reste à Era (D6).

diff --git a/docs/PLAN-E4-rapport.md b/docs/PLAN-E4-rapport.md
@@ -80,7 +80,7 @@ reprend ce qu'il lui faut et renvoie à E3 pour le détail, il ne s'y réduit pa
 | T1 | Recompter les 36 critères contre le dépôt d'aujourd'hui | skill `projet-rncp` | **fait le 03/10** : `docs/rapports/E4/recomptage-criteres-2026-10-03.md`, remplace celui du 26/09 |
 | T2 | User stories et wireframes des écrans 2 et 3 (#24) | `evidence/C14/`, `frontend/` | **fait le 03/10** : `evidence/C14/preuve-specifications-ecrans-2-et-3.md`, un wireframe `.drawio`, `.svg` et `.png` par écran ; écrit après le code, dit en tête ; a fait trouver le défaut #73 et une erreur de référence RGAA |
 | T3 | Mesurer l'éco-conception et l'accessibilité des trois pages (#25) | le front local | **fait le 03/10** : `evidence/C17/preuve-eco-conception-et-accessibilite-2026-10-03.md` (Lighthouse 13.5.0, EcoIndex officiel, clavier) ; le tableau **après** suivra la correction de la carte #74, après le 15/10 |
-| T4 | Revue OWASP Top 10 écrite (#29) | le code, `tests/` | `docs/` ou `evidence/C17/` : dix lignes, chacune avec son fichier ou son test |
+| T4 | Revue OWASP Top 10 écrite (#29) | le code, `tests/` | **fait le 03/10** : `evidence/C17/revue-owasp-top10-2025-2026-10-03.md`, édition 2025, dix entrées, dix constats S1 à S10 ; corrections après le 15/10 (carte #75) |
 | T5 | Droits d'accès : défense écrite (#26) | `api/main.py`, `db/roles.sql` | une page avec le modèle de menace |
 | T6 | Revues du lundi : 05/10, 12/10, 19/10 | tableau Kanban | `evidence/C16/revues/<date>.md` |
 | T7 | Épingler `requirements.txt` (#23) | `requirements.txt` | suite et chaîne vertes, sortie collée |

diff --git a/docs/rapports/E4/recomptage-criteres-2026-10-03.md b/docs/rapports/E4/recomptage-criteres-2026-10-03.md
@@ -119,6 +119,12 @@ de revue n'existe dans le dépôt (voir C16.1 et C16.4). Aucun ❌. Le rapport E
 - **C17.3 et R11 mieux étayés** : l'ordre de tabulation, le focus visible et le déplacement du focus sur le résultat sont **mesurés** (`clavier.json`) et non plus seulement lus.
 - **Total : 27 ✅, 9 ⚠, 0 ❌.**
 
+## 7. Mise à jour du 03/10/2026, après la tâche T4
+
+- **C17.8 (préconisations OWASP Top 10 implémentées) reste ⚠**, mais pour une autre raison : la revue écrite existe désormais (`evidence/C17/revue-owasp-top10-2025-2026-10-03.md`, édition 2025, entrée par entrée) ; elle montre que plusieurs préconisations ne sont **pas** implémentées (en-têtes de sécurité, limitation de débit, journalisation des refus d'authentification, chaîne d'approvisionnement). Le critère demande des préconisations implémentées : le cocher serait une fausse complétude.
+- **C17.5 (droits d'accès)** : la revue confirme le contrôle d'accès en production (403 sans clé et avec une fausse clé) et ajoute deux réserves (documentation publique, aucune limite aux essais).
+- **Total inchangé : 27 ✅, 9 ⚠, 0 ❌.**
+
 ## 📖 Glossaire
 
 - **Critère** : phrase du référentiel que le jury coche.
